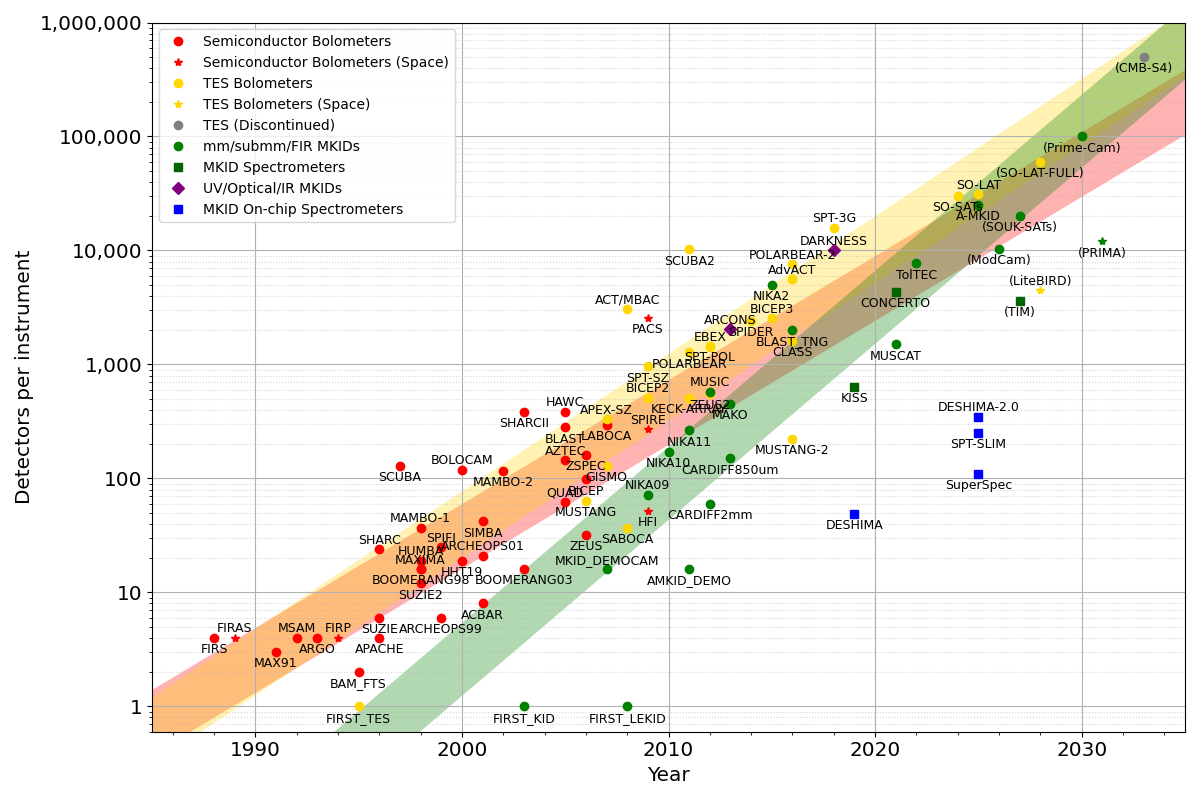
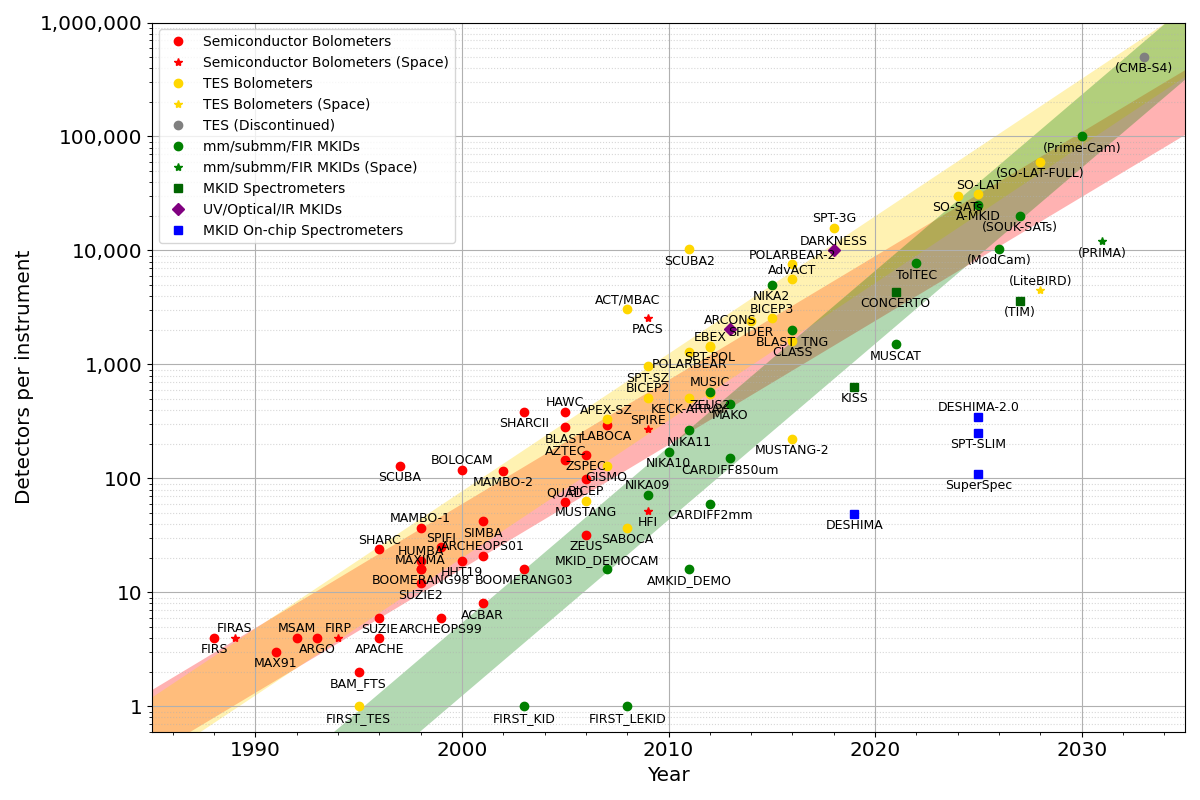
Fix PRIMA reference author (Glenn+2025) and add mm/submm/FIR MKIDs (Space) legend entry

Changed region(s): [[0.1233, 0.1875, 0.3392, 0.3125]]

diff --git a/instruments.py b/instruments.py
@@ -198,6 +198,7 @@ plt.plot([], 'o',  color = 'gold',alpha=1, label = 'TES Bolometers')
 plt.plot([], '*',  color = 'gold',alpha=1, label = 'TES Bolometers (Space)')
 plt.plot([], 'o',  color = 'gray',alpha=1, label = 'TES (Discontinued)')
 plt.plot([], 'o',  color = 'green',alpha=1, label = 'mm/submm/FIR MKIDs')
+plt.plot([], '*',  color = 'green',alpha=1, label = 'mm/submm/FIR MKIDs (Space)')
 plt.plot([], 's',  color = 'darkgreen',alpha=1, label = 'MKID Spectrometers')
 plt.plot([], 'D',  color = 'purple',alpha=1, label = 'UV/Optical/IR MKIDs')
 plt.plot([], 's',  color = 'blue',alpha=1, label = 'MKID On-chip Spectrometers')
